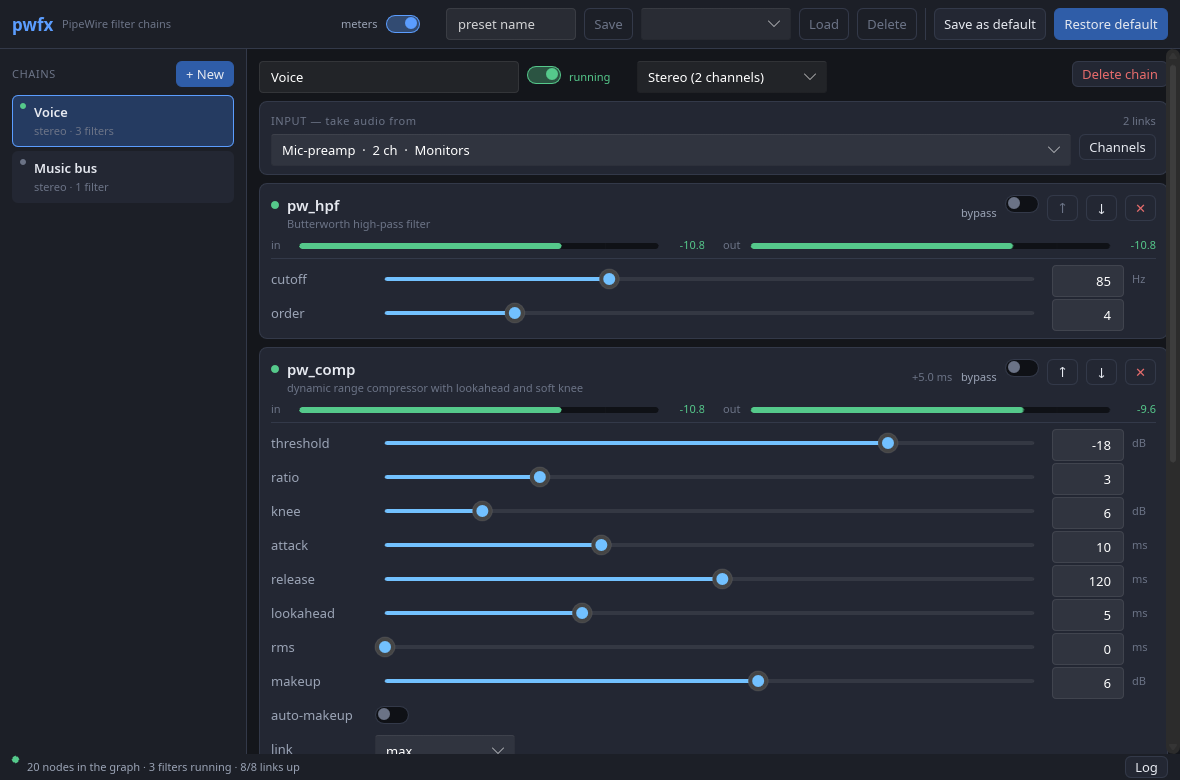
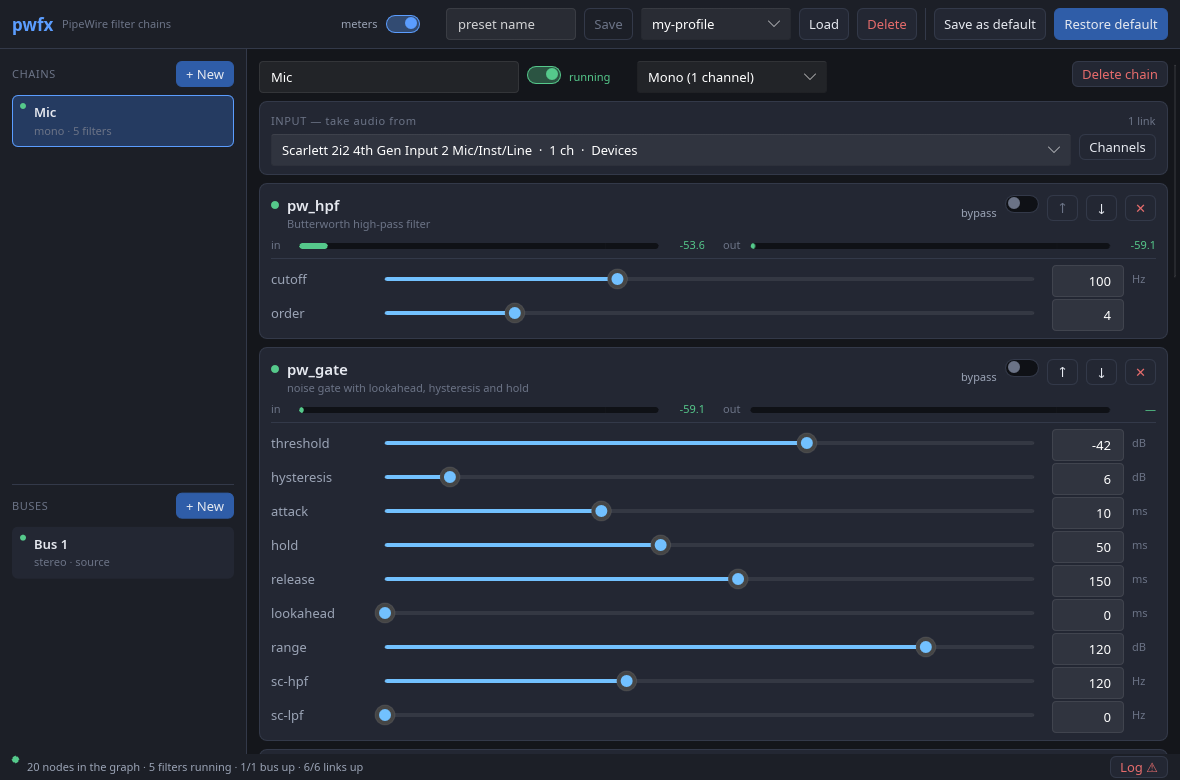
Give the preset dropdown back its slot
Picker was a HorizontalLayout wrapping a ComboBox, and a layout cannot give
a child less than the minimum it asks for. ComboBox asks for 160px, so
`width: 150px` on the preset dropdown sized the wrapper and not the box: it
came out 160px wide and hung ten pixels out of its slot, over the gap before
the Load button and into the button itself.

It inherits ComboBox now instead of wrapping one, so a width lands on the
same element it did before this component existed. Nothing else about it
changes, and the four wider dropdowns were never affected -- 190px and the
stretching ones are all above the minimum, which is why only this one
showed.

Measured rather than eyeballed: window_tests lays the real window out and
walks every dropdown against the buttons sharing its row, asserting a
row's gap between them, and pins the preset dropdown at the 150px the
toolbar asks for. It finds the dropdowns by what they inherit rather than
by name, so it measures the box that is drawn rather than the slot meant to
hold it -- measuring the slot is exactly how this got through.

diff --git a/app/src/main.rs b/app/src/main.rs
@@ -1643,6 +1643,7 @@ mod window_tests {
             a_dropdown_follows_the_model().await;
             an_endpoint_picker_survives_its_list_changing().await;
             the_bus_pane_comes_up_and_commits_its_name().await;
+            a_picker_never_runs_into_the_control_beside_it().await;
             slint::quit_event_loop().unwrap();
         })
         .unwrap();
@@ -1745,7 +1746,7 @@ mod window_tests {
         settle(&win).await;
 
         let shown = || -> Vec<String> {
-            testing::ElementHandle::find_by_element_id(&win, "Picker::box")
+            testing::ElementHandle::find_by_element_type_name(&win, "Picker")
                 .filter_map(|e| e.accessible_value().map(|v| v.to_string()))
                 .collect()
         };
@@ -1773,6 +1774,78 @@ mod window_tests {
              back; got {:?}",
             shown()
         );
+    }
+
+    /// A `Picker` has to take the width it is given.
+    ///
+    /// It inherits `ComboBox`, which asks for at least 160px. While it was a
+    /// layout wrapping one, a narrower width on the wrapper could not be
+    /// passed on -- a layout cannot give a child less than its minimum -- so
+    /// the box hung 10px out of its slot and over the button beside it. The
+    /// preset dropdown is the one narrow enough for that to bite, and the
+    /// gap between it and "Load" simply vanished.
+    ///
+    /// Nothing about that fails to compile or looks wrong in the markup, so
+    /// this measures the real window instead: every dropdown keeps a row's
+    /// worth of space between itself and whatever button follows it.
+    async fn a_picker_never_runs_into_the_control_beside_it() {
+        let win = one_stage_window(vec![number_param("b3-freq", "1000", 0.5)]);
+        win.set_presets(strings(&["voice".into(), "guitar".into()]));
+        win.set_preset_index(0);
+        win.set_plugin_options(strings(&["pw_eq \u{2014} five bands".into()]));
+        win.set_source_options(strings(&["\u{2014} no input \u{2014}".into()]));
+        win.set_sink_options(strings(&["\u{2014} no output \u{2014}".into()]));
+        show(&win);
+        settle(&win).await;
+
+        // (left, right, top, bottom) of everything that shares a toolbar or
+        // a card row with a dropdown.
+        let rect = |e: &testing::ElementHandle| {
+            let (p, s) = (e.absolute_position(), e.size());
+            (p.x, p.x + s.width, p.y, p.y + s.height)
+        };
+        // By what it inherits rather than by name, so this measures the box
+        // that is actually drawn however `Picker` comes to be one. Measuring
+        // a wrapper instead would report the slot rather than what is
+        // sticking out of it, which is the whole fault.
+        let pickers: Vec<_> = testing::ElementQuery::from_root(&win)
+            .match_inherits("ComboBox")
+            .find_all()
+            .iter()
+            .map(rect)
+            .collect();
+        let buttons: Vec<_> = testing::ElementHandle::find_by_element_id(&win, "Btn::label")
+            .map(|e| rect(&e))
+            .collect();
+        assert!(pickers.len() >= 4, "expected the window to build its dropdowns");
+
+        // The one the bug was reported on, stated as what it should be
+        // rather than as "not overlapping": `width: 150px` means 150px.
+        let toolbar = pickers
+            .iter()
+            .find(|p| p.2 < 60.0)
+            .expect("no dropdown in the toolbar");
+        assert_eq!(
+            toolbar.1 - toolbar.0,
+            150.0,
+            "the preset dropdown must take the width the toolbar gives it"
+        );
+
+        const GAP: f32 = 8.0; // Theme.gap
+        for p in &pickers {
+            for b in &buttons {
+                let same_row = b.2 < p.3 && b.3 > p.2;
+                if same_row && b.0 >= p.0 {
+                    assert!(
+                        b.0 >= p.1 + GAP,
+                        "a dropdown ending at {} leaves no room before the \
+                         button at {}",
+                        p.1,
+                        b.0
+                    );
+                }
+            }
+        }
     }
 
     /// The bus pane is the other half of the window and has its own name

diff --git a/app/README.md b/app/README.md
@@ -173,6 +173,13 @@ Every dropdown whose value belongs to the state therefore goes through
 `changed index` — both, because the list can change while the index stays the
 same number, and that is precisely the case the widget gets wrong on its own.
 
+`Picker` inherits `ComboBox` rather than wrapping one, and that detail is
+load-bearing too: a wrapper is a layout, and a layout cannot give its child
+less than the 160px the widget asks for. Written that way, `width: 150px` on
+the preset dropdown left the box hanging 10px out of its slot and over the
+**Load** button beside it. So the tests measure the real window — every
+dropdown keeps a row's worth of space between itself and whatever follows.
+
 ## Tests
 
 ```sh
@@ -185,8 +192,9 @@ cargo test
   backend — it clicks into a field, types, clicks away, and asserts the value
   was committed and that the field still follows the model afterwards; and it
   shrinks an endpoint list past the selection and grows it back, asserting the
-  dropdown still names the right node. These are the regression tests for the
-  two traps above; each fails if its half is removed.
+  dropdown still names the right node; and it measures the laid-out window to
+  catch a dropdown overlapping the control beside it. These are the regression
+  tests for the traps above; each fails if its half is removed.
 - `engine::round_trip` starts a real `pw_eq`, feeds it a saved chain and
   asserts the filter reports back exactly what was asked for, then that
   adopting its report and a JSON cycle both leave the state alone. Needs a

diff --git a/CLAUDE.md b/CLAUDE.md
@@ -227,3 +227,8 @@ Two consequences to keep in mind:
   `changed options` as well as `changed index` -- both, because the list can
   change while the index stays the same number, and that is the case the
   widget gets wrong. Do not use a bare `ComboBox` for a value the model owns.
+  `Picker` *inherits* `ComboBox` rather than wrapping one, because a wrapper
+  is a layout and a layout cannot give a child less than the 160px the widget
+  asks for -- a narrower width on the wrapper left the box hanging out of it
+  and over the next control in the row. `window_tests` measures the real
+  window for that.
